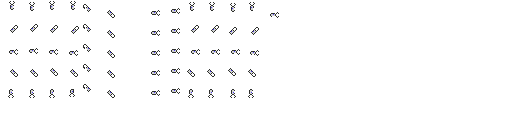
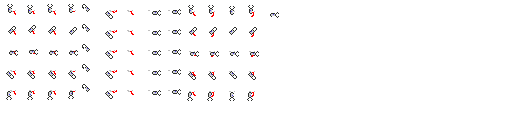
Replace small mario images.

diff --git a/README.md b/README.md
@@ -60,10 +60,16 @@ Modified from Square Block Textures by etqws3
 https://opengameart.org/content/square-block-textures  
 License: CC0
 
-Underwater block and coral
-Modified from Monkey Lad in Magical Planet by surt
-https://opengameart.org/content/monkey-lad-in-magical-planet
+Underwater block and coral  
+Modified from Monkey Lad in Magical Planet by surt  
+https://opengameart.org/content/monkey-lad-in-magical-planet  
 License: CC0
+
+Small mario  
+Modified from Super Miyamoto by Lars Doucet & Sean Choate  
+https://opengameart.org/content/super-miyamoto  
+License: CC-BY 3.0
+
 
 Sounds
 
